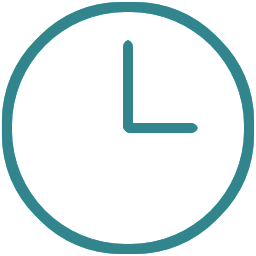
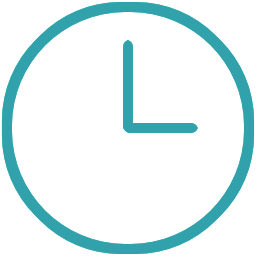
settle midway in between turquoise darknesses

Changed region(s): [[0.0, 0.0, 1.0, 1.0], [0.4688, 0.1562, 0.7812, 0.5312]]

diff --git a/css/main.css b/css/main.css
@@ -193,14 +193,14 @@
     nav.menu.drawer a {
       color: #a9a2a6; }
       nav.menu.drawer a.current {
-        color: #32858c; }
+        color: #31a2ab; }
         nav.menu.drawer a.current .border {
           display: inline-block;
           width: 0;
           height: 0.5em; }
           nav.menu.drawer a.current .border::after {
             content: '';
-            border: 0.2em solid #32858c;
+            border: 0.2em solid #31a2ab;
             border-radius: 50%;
             display: block;
             left: 0.6em;
@@ -211,7 +211,7 @@
       padding: 0; }
       nav.menu.drawer ul li {
         background: white;
-        border-top: 2px solid #dfd8d7;
+        border-top: 2px solid #f1eeed;
         font-size: 1.2em;
         font-weight: 400;
         padding: 3vh 2vh;
@@ -307,7 +307,7 @@ nav.main.menu {
           position: relative; }
           nav.main.menu.mobile ul a.current li,
           nav.main.menu.mobile ul a.hamburger.current li {
-            color: #32858c; }
+            color: #31a2ab; }
           nav.main.menu.mobile ul a.current .border,
           nav.main.menu.mobile ul a.hamburger.current .border {
             display: none; }

diff --git a/css/scss/nav.scss b/css/scss/nav.scss
@@ -18,14 +18,14 @@ nav.menu.drawer {
 		a {
 			color: lighten($grey-medium, 10%);
 			&.current {
-				color: $turquoise;
+				color: $turquoise-medium;
 				.border {
 					display: inline-block;
 					width: 0;
 					height: 0.5em;
 					&::after {
 						content: '';
-						border: 0.2em solid $turquoise;
+						border: 0.2em solid $turquoise-medium;
 						border-radius: 50%;
 						display: block;
 						left: 0.6em;
@@ -40,7 +40,7 @@ nav.menu.drawer {
 			padding: 0;
 			li {
 				background: white;
-				border-top: 2px solid lighten($grey-light, 10%);
+				border-top: 2px solid lighten($grey-light, 18%);
 				font-size: 1.2em;
 				font-weight: 400;
 				padding: 3vh 2vh;
@@ -117,7 +117,7 @@ nav.main.menu {
 				&.current {
 					position: relative;
 					li {
-						color: $turquoise;
+						color: $turquoise-medium;
 					}
 					.border {
 						display: none;

diff --git a/css/scss/_variables.scss b/css/scss/_variables.scss
@@ -7,6 +7,7 @@
 
 $beige-lightest    : #f5e7e0;
 $turquoise-light   : #3dbfbd;
+$turquoise-medium  : #31a2ab;
 $turquoise         : #32858c;
 $turquoise-dark    : #0f646d;
 $green-grass-light : #5c9e33;
